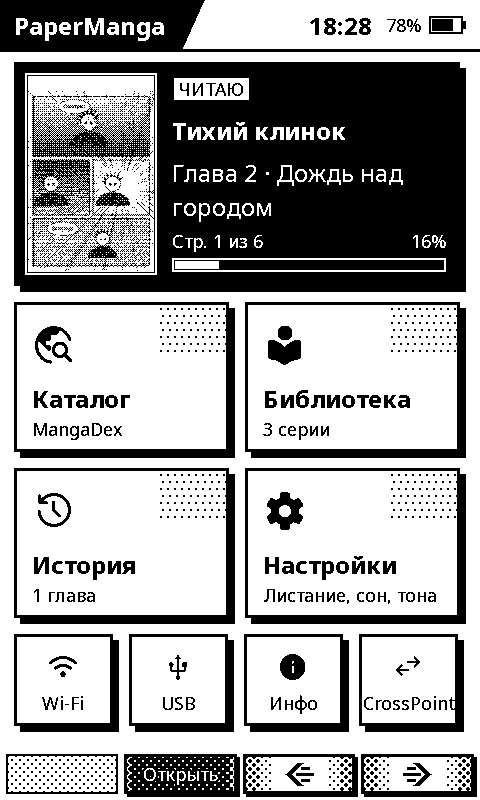
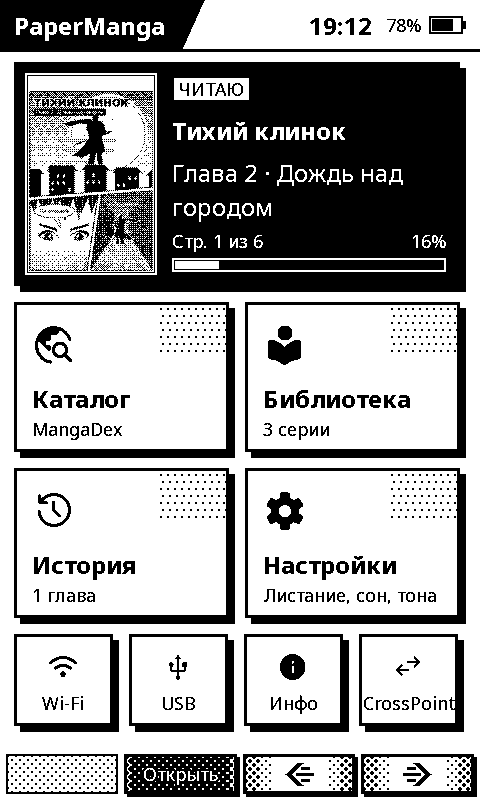
Site: new demo manga art, no bubble, no gallery, shorter text

Changed region(s): [[0.0625, 0.0938, 0.3438, 0.3438], [0.7188, 0.0, 0.7812, 0.0625]]

diff --git a/docs/index.html b/docs/index.html
@@ -42,9 +42,9 @@
   .hero { position: relative; overflow: hidden; border-bottom: 4px solid var(--ink); }
   .hero::before { content: ""; position: absolute; inset: 0; opacity: .13; }
   .hero .speedbg { position: absolute; inset: 0; opacity: .12; }
-  .hero .wrap { position: relative; display: grid; grid-template-columns: minmax(0, 1.05fr) minmax(0, 1fr); gap: 40px; align-items: center;
+  .hero .wrap { position: relative; display: grid; grid-template-columns: minmax(0, 1.05fr) minmax(0, 1fr); gap: 64px; align-items: center;
                 padding-top: 64px; padding-bottom: 72px; }
-  .hero h1 { font-size: clamp(40px, 5.6vw, 68px); line-height: 1.12; margin: 18px 0 22px; }
+  .hero h1 { font-size: clamp(38px, 4vw, 54px); line-height: 1.12; margin: 18px 0 22px; }
   .hero h1 em { font-style: normal; background: var(--ink); color: var(--paper); padding: .02em .16em .08em;
                 display: inline-block; margin-top: .12em; transform: skew(-4deg); }
   .hero p.lead { font-size: 20px; max-width: 34em; margin: 0 0 28px; }
@@ -61,11 +61,6 @@
   .device img { display: block; width: 100%; border-radius: 4px; background: #fff; }
   .device.back { left: 0; top: 70px; transform: rotate(-7deg); }
   .device.front { right: 0; top: 0; transform: rotate(4deg); }
-  .bubble { position: absolute; background: var(--paper); border: 4px solid var(--ink); border-radius: 50%;
-            padding: 18px 26px; font-weight: 800; box-shadow: 5px 5px 0 var(--ink); }
-  .bubble::after { content: ""; position: absolute; left: 30%; bottom: -22px; border: 12px solid transparent;
-                   border-top: 18px solid var(--ink); }
-  .hero .bubble { left: 2%; top: 4px; z-index: 2; transform: rotate(-6deg); }
   @media (max-width: 900px) {
     .hero .wrap { grid-template-columns: minmax(0, 1fr); }
     .devices { height: 480px; max-width: 520px; }
@@ -89,8 +84,7 @@
   .feature .num { position: absolute; top: -18px; left: 16px; }
   .feature h3 { margin: 10px 0 8px; font-size: 22px; }
   .feature p { margin: 0; color: #222; }
-  @media (max-width: 900px) { .features { grid-template-columns: 1fr 1fr; } }
-  @media (max-width: 600px) { .features { grid-template-columns: 1fr; } }
+  @media (max-width: 900px) { .features { grid-template-columns: 1fr; } }
 
   .show { display: grid; grid-template-columns: 500px 1fr; gap: 48px; align-items: center; margin: 0 0 100px; }
   .show:last-child { margin-bottom: 0; }
@@ -113,10 +107,6 @@
     .shot, .show.flip .shot { max-width: 400px; }
   }
 
-  .gallery { display: grid; grid-template-columns: repeat(auto-fill, minmax(170px, 1fr)); gap: 26px 20px; }
-  .gallery figure { margin: 0; }
-  .gallery .device { position: relative; width: 100%; padding: 9px 9px 26px; border-radius: 14px; box-shadow: 6px 6px 0 var(--ink); }
-  .gallery figcaption { font-weight: 600; font-size: 15px; margin-top: 12px; }
 
   .install { display: grid; grid-template-columns: 1.1fr .9fr; gap: 32px; align-items: start; }
   .install .panel { padding: 28px 30px; }
@@ -129,7 +119,7 @@
   esp-web-install-button { display: inline-block; margin-top: 8px; }
   @media (max-width: 860px) { .install { grid-template-columns: 1fr; } }
 
-  .faq { display: grid; grid-template-columns: 1fr 1fr; gap: 24px; }
+  .faq { display: grid; grid-template-columns: repeat(3, 1fr); gap: 24px; }
   .faq .panel { padding: 22px 24px; }
   .faq h3 { margin: 0 0 8px; font-size: 19px; }
   .faq p { margin: 0; }
@@ -168,7 +158,6 @@
       <p class="meta">Версия 0.2.3 · рядом CrossPoint 1.6.5-manga3 · бесплатно, без регистрации</p>
     </div>
     <div class="devices">
-      <div class="bubble">Читай!</div>
       <div class="device back"><img src="shots/page.png" alt="Страница манги на читалке"></div>
       <div class="device front"><img src="shots/home.png" alt="Главный экран PaperManga"></div>
     </div>
@@ -178,20 +167,16 @@
 <section id="features">
   <div class="wrap">
     <h2 class="section display">Всё нужное — на самой читалке</h2>
-    <p class="sub">Читалка сама ходит в интернет, скачивает страницы, нарезает их под экран 480×800 и раскладывает по полке.
-      Компьютер нужен только один раз — для установки.</p>
+    <p class="sub">Читалка сама скачивает главы и собирает их под экран. Компьютер нужен один раз — для установки.</p>
     <div class="features">
-      <div class="feature panel"><span class="stamp num">01</span><h3>Каталог</h3><p>MangaDex и MangaLib: популярное, новинки, поиск, главы. Со входом в MangaLib — и 18+.</p></div>
-      <div class="feature panel"><span class="stamp num">02</span><h3>Сборка под экран</h3><p>Прокрутка, целая страница, альбомный, четыре области. Длинные ленты манхв — без проблем.</p></div>
-      <div class="feature panel"><span class="stamp num">03</span><h3>Полка</h3><p>Обложки серий, счётчик новых глав, «Читаю» на главном экране — с той же страницы.</p></div>
-      <div class="feature panel"><span class="stamp num">04</span><h3>Быстрое листание</h3><p>Своя волновая форма экрана без мигания, четыре оттенка серого, предзагрузка страниц.</p></div>
-      <div class="feature panel"><span class="stamp num">05</span><h3>Wi‑Fi и браузер</h3><p>До восьми сетей. Адрес читалки в браузере телефона: сети, вход, загрузка своих глав.</p></div>
-      <div class="feature panel"><span class="stamp num">06</span><h3>Обновления</h3><p>«О системе» → «Проверить». PaperManga и CrossPoint обновляют друг друга по Wi‑Fi.</p></div>
+      <div class="feature panel"><span class="stamp num">01</span><h3>Сборка под экран</h3><p>Прокрутка, целая страница, альбомный, четыре области. Длинные ленты манхв — без проблем.</p></div>
+      <div class="feature panel"><span class="stamp num">02</span><h3>Без мигания</h3><p>Своя волновая форма экрана, четыре оттенка серого, следующая страница уже готова.</p></div>
+      <div class="feature panel"><span class="stamp num">03</span><h3>Обновления по Wi‑Fi</h3><p>До восьми сетей. Новая версия — из «О системе», без компьютера.</p></div>
     </div>
   </div>
 </section>
 
-<section class="alt">
+<section id="screens" class="alt">
   <div class="wrap">
     <div class="show">
       <div class="shot">
@@ -244,27 +229,6 @@
   </div>
 </section>
 
-<section id="screens">
-  <div class="wrap">
-    <h2 class="section display">Как это выглядит</h2>
-    <p class="sub">Снимки экрана один в один, как их показывает читалка: 480×800, четыре оттенка серого.
-      Главы на снимках — демонстрационные, нарисованные для этой страницы.</p>
-    <div class="gallery">
-      <figure><div class="device"><img src="shots/home.png" alt="Главный экран"></div><figcaption>Главный экран</figcaption></figure>
-      <figure><div class="device"><img src="shots/library.png" alt="Полка"></div><figcaption>Полка</figcaption></figure>
-      <figure><div class="device"><img src="shots/chapters.png" alt="Главы"></div><figcaption>Главы</figcaption></figure>
-      <figure><div class="device"><img src="shots/catalog.png" alt="Каталог"></div><figcaption>Каталог</figcaption></figure>
-      <figure><div class="device"><img src="shots/build.png" alt="Сборка глав"></div><figcaption>Сборка глав</figcaption></figure>
-      <figure><div class="device"><img src="shots/page.png" alt="Чтение"></div><figcaption>Чтение</figcaption></figure>
-      <figure><div class="device"><img src="shots/menu.png" alt="Меню чтения"></div><figcaption>Меню чтения</figcaption></figure>
-      <figure><div class="device"><img src="shots/end.png" alt="Конец главы"></div><figcaption>Конец главы</figcaption></figure>
-      <figure><div class="device"><img src="shots/delete.png" alt="Удаление"></div><figcaption>Удаление</figcaption></figure>
-      <figure><div class="device"><img src="shots/wifi.png" alt="Wi‑Fi"></div><figcaption>Wi‑Fi</figcaption></figure>
-      <figure><div class="device"><img src="shots/about.png" alt="О системе"></div><figcaption>О системе</figcaption></figure>
-    </div>
-  </div>
-</section>
-
 <section id="install" class="alt">
   <div class="wrap">
     <h2 class="section display">Установка за минуту</h2>
@@ -286,12 +250,9 @@
       <div class="panel warn">
         <span class="stamp">Прочитай перед установкой</span>
         <ul>
-          <li>Только <b>X4 Classic</b> (ESP32‑S3). Обычный X4 установщик не тронет.</li>
-          <li>Некоторые читалки с AliExpress продаются с закрытой прошивкой по USB. Если браузер не видит устройство —
-            не обходи блокировку чужими утилитами.</li>
-          <li>Пишутся только два слота приложений и выбор слота. Загрузчик, таблица разделов и заводская калибровка
-            экрана остаются, флеш не стирается.</li>
-          <li>Книги и настройки на карте остаются.</li>
+          <li>Только <b>X4 Classic</b> (ESP32‑S3).</li>
+          <li>Флеш не стирается: заводская калибровка экрана, книги и настройки остаются.</li>
+          <li>Если браузер не видит читалку, прошивка закрыта продавцом — не обходи это чужими утилитами.</li>
         </ul>
       </div>
     </div>
@@ -308,8 +269,6 @@
         <a href="https://crosspointreader.com/#flash-tools">crosspointreader.com</a>.</p></div>
       <div class="panel"><h3>Откуда манга?</h3><p>Из источников, которые подключаешь сам: MangaDex, MangaLib со своим входом.
         Мы ничего не храним и не раздаём; права — у авторов и издателей.</p></div>
-      <div class="panel"><h3>Как обновлять?</h3><p>«О системе» → «Проверить». Новая версия придёт по Wi‑Fi, компьютер
-        больше не нужен.</p></div>
     </div>
   </div>
 </section>
